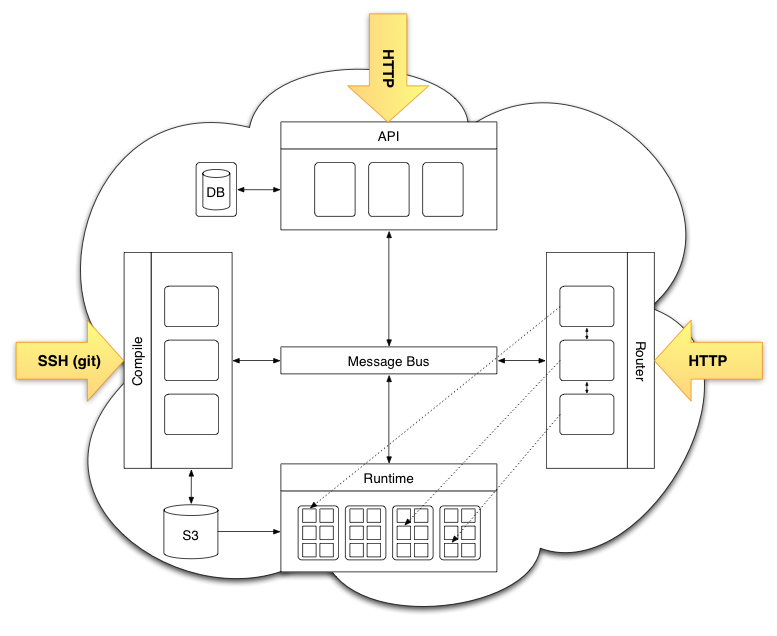
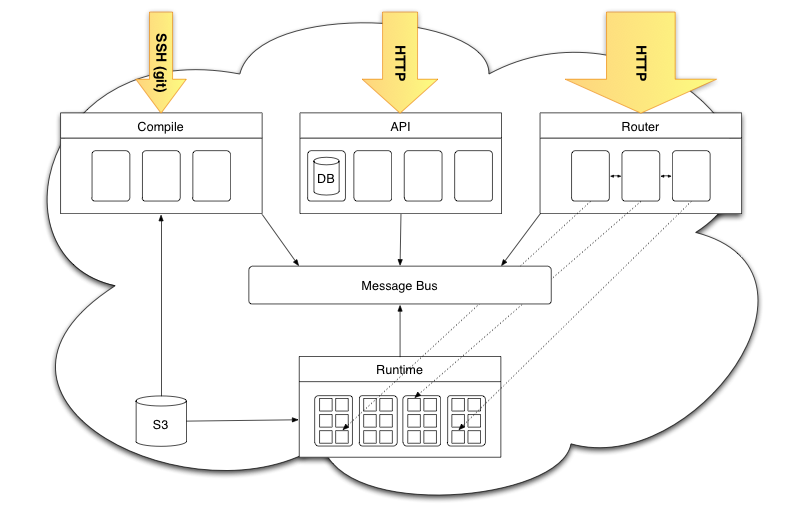
talk wip

diff --git a/sections/self-hosting/slides.md b/sections/self-hosting/slides.md
@@ -1,13 +1,21 @@
+!SLIDE title-slide bullets incremental
+# Self-Hosting #
+## A computer program that produces new versions of that same program ##
+
+* Compilers
+* Kernels
+* Programming Languages
+* Revision Control Systems
+* Text Editors
+
+<p class="notes">
+FASM; Haiku; GCC; Hart/Levin Lisp in '62; PyPy; Rubinius; CoffeeScript; Git; VIM
+</p>
+
 !SLIDE title-slide bullets
 # Self-Hosting #
-
-* A computer program that produces new versions of that same program
-* Compilers, kernels, revision control software
-
-!SLIDE title-slide bullets
-# Self-Hosting #
-## Applies to services? ##
-<p class="notes">WTF MATE??</p>
+## Applicable Metaphor for Services? ##
+<p class="notes">Service != computer program, but is a comparable system</p>
 
 !SLIDE center
 # Heroku Self-Hosting: Easy #
@@ -15,12 +23,11 @@
 ## blog.heroku.com ##
 ![Heroku Website](public.png "Heroku Website")
 
-!SLIDE
+!SLIDE bullets
 # Motivations #
 * Dogfooding
 * Efficiency
-* Decrease surface area
-* Separation of concerns
+* Separation of Concerns
 
 <p class="notes">
 Used to be unified with API!
@@ -29,41 +36,53 @@ Used to be unified with API!
 !SLIDE commandline
 # Heroku Self-Hosting: Normal #
 ## addons.heroku.com ##
-## Cron ##
+## Cron Addon ##
 
     $ heroku ps --app cron
-    Process       State               Command
-    ------------  ------------------  --------------------------------------------------
-    exec.1        up for 19h          rake resque:work QUEUE=exec
-    exec.2        up for 19h          rake resque:work QUEUE=exec
-    finder.1      up for 19h          rake resque:work QUEUES=scheduled,missed
-    finder.2      up for 18h          rake resque:work QUEUES=scheduled,missed
-    scheduler.1   up for 19h          rake resque:scheduler
-    web.1         up for 19h          bundle exec unicorn -p $PORT -c ./unicorn.conf.rb
-    web.2         up for 19h          bundle exec unicorn -p $PORT -c ./unicorn.conf.rb
-
-!SLIDE
-# Heroku Self-Hosting: Heroic #
-* PGBackups
-* postgres.heroku.com
-* Manages entire Database Cloud from heroku apps
+    Process       State        Command
+    ------------  ---------  --------------------------------------------------
+    exec.1        up for 9d  rake resque:work QUEUE=exec
+    exec.2        up for 9d  rake resque:work QUEUE=exec
+    finder.1      up for 9d  rake resque:work QUEUES=scheduled,missed
+    finder.2      up for 8d  rake resque:work QUEUES=scheduled,missed
+    scheduler.1   up for 9d  rake resque:scheduler
+    web.1         up for 9d  bundle exec unicorn -p $PORT -c ./unicorn.conf.rb
+    web.2         up for 9d  bundle exec unicorn -p $PORT -c ./unicorn.conf.rb
 
 <p class="notes">
-TODO: postgres.heroku.com image
+Addons split off from API too. Cron built using addons APIs.
+</p>
+
+!SLIDE smbullets center
+# Heroku Self-Hosting: Heroic #
+## Database Cloud Built with Heroku Apps #
+## Shogun / PGBackups ##
+![Heroku PostgreSQL](postgres.png "Heroku PostgreSQL")
+
+<p class="notes">
+postgres.heroku.com too
 </p>
 
 !SLIDE
 # Heroku Self-Hosting: Legendary? #
 
+<p class="notes">
+Halo difficulty levels
+</p>
+
 !SLIDE center
-# Architecture #
+# Heroku Architecture #
 ![Heroku Black Box Architecture](Heroku Black Box.png "Heroku Black Box Architecture")
 
 !SLIDE center
 # Self-Hosted Architecture #
 ![Compile / Runtime](Compile To Runtime.png "Compile To Runtime")
 
-!SLIDE
+<p class="notes">
+Compiling in a dyno remind you of the LLVM demo?
+</p>
+
+!SLIDE bullets
 # Motivations #
 * Dogfooding
 * Efficiency
@@ -76,10 +95,25 @@ Same bullets as public.heroku.com. Pattern?
 </p>
 
 !SLIDE
+# Disregard Servers #
+
+!SLIDE
+# Disregard Servers, #
+# Acquire Dynos #
+
+!SLIDE
+# Disregard Servers, #
+# Acquire Dynos, #
+# Not Just for Rails Apps #
+
+!SLIDE smbullets
 # Operations #
-* Heroku proves servers suck
-* Git push heroku master deploys
-* heroku logs --tail logging
+* git push heroku master deploys
+* secure containers
+* ephemeral containers
+* effortless scaling
+* addons
+* logging
 
 !SLIDE center
 # What Else? #

diff --git a/sections/bootstrapping/slides.md b/sections/bootstrapping/slides.md
@@ -1,21 +1,33 @@
-!SLIDE title-slide bullets
+!SLIDE title-slide
 # Bootstrapping, 19th Cent. #
+## To raise or better oneself by one's own unaided efforts, in a ludicrously far-fetched or quixotic manner ##
 
-* To raise or better oneself by one's own unaided efforts, in a ludicrously far-fetched or quixotic manner
+<p class="notes">
+Talk is about "bootstrap" and "self-hosting" metaphors. Originally meant something impossible.
+</p>
 
 !SLIDE center
-![Baron Munchausen](BaronMunch.jpg "Baron Munchausen")
+![Baron Münchhausen](BaronMunch.jpg "Baron Münchhausen")
+Baron Münchhausen
 
 !SLIDE bullets
 # Bootstrapping, 20th Cent. #
-* A self-sustaining process that proceeds without external help
+## A self-sustaining process that proceeds without external help ##
+
+<p class="notes">
+In early 1900s America, morphed into something possible
+</p>
 
 !SLIDE bullets incremental
 # Bootstrapping Applications #
-* Socio-economics
+* Socio-Economics
 * Business
 * Statistics
 * Linguistics
+
+<p class="notes">
+The American dream; company without VC; sampling with replacement; acquiring language
+</p>
 
 !SLIDE smbullets
 # Biology #
@@ -25,32 +37,39 @@ Different cells receive different combinations of chemicals, which switch on dif
 
 Richard Dawkins, <i>River Out of Eden</i>
 
-!SLIDE
+!SLIDE bullets
 # Computers #
 
-* Part of "booting" a computer (1953)
+* "Booting" a computer is a derivation
 * Main memory starts in a blank slate
 * Small program (BIOS) inits hardware
 * Loads a program from hard drive
 * Passes control to bigger program (OS)
 
-!SLIDE
-# Compilers #
-* Writing a compiler in the language it compiles
+<p class="notes">
+Booting circa 1953. Some computers had a "bootstrap" button
+</p>
 
 !SLIDE
+# Compilers #
+## Writing a compiler in the language it compiles ##
+
+!SLIDE bullets
 # Advantages #
 * Non-trivial test of the language being compiled
 * Development can occur in a higher-level language
 * Comprehensive consistency check
 
-!SLIDE
+!SLIDE bullets
 # Demo: LLVM / clang #
 * LLVM compiler infrastructure
 * clang C / C++, Objective C / C++ frontend
 * Written in C++
-* Sponsored/used by Apple
 * BSD license
+
+<p class="notes">
+Sponsored/used by Apple
+</p>
 
 !SLIDE code smaller
     @@@ sh
@@ -119,6 +138,10 @@ Richard Dawkins, <i>River Out of Eden</i>
       Unsupported Tests  : 1
     real  0m57.331s
 
+<p class="notes">
+Try live demo: `heroku run bin/llvm.sh --app stloop`
+</p>
+
 !SLIDE commandline
     $ heroku run bin/llvm.sh
     + wc
@@ -133,11 +156,19 @@ Richard Dawkins, <i>River Out of Eden</i>
     ++ strings /tmp/stage3/Release/bin/clang
          12      18     178
 
-!SLIDE
-# Self-hosting #
-* Bootstrap clang with GCC
+<p class="notes">
+Stage 2 is sufficient, but building stage 3 is a consistency test
+</p>
+
+!SLIDE bullets
+# Bootstrap → Self-Hosting #
+* Bootstrap LLVM/clang with GCC
 * Compile clang with clang
 * Clang is <b>self-hosting</b>!
+
+<p class="notes">
+Need to trust GCC. Ken Thompson - Reflections on Trusting Trust, 1984
+</p>
 
 !SLIDE center
 ![Drawing Hands](handrawb.jpg "Drawing Hands")

diff --git a/sections/intro/slides.md b/sections/intro/slides.md
@@ -2,18 +2,17 @@
 # Running Heroku on Heroku #
 
 * Noah Zoschke
+* @nzoschke
 * noah@heroku.com
 * [http://stloop.herokuapp.com](http://stloop.herokuapp.com)
 
 !SLIDE bullets incremental
-# Background #
+# Heroku Background #
 
 * Cloud Application Platform as a Service
 * Run anything and see everything without servers 
 * Distributed Unix
 
-!SLIDE bullets incremental
-# Background #
-
-* Self-hosting metaphor
-* Bootstrapping
+<p class="notes">
+Used to be "Ruby" App platform. Now Node.js, Clojure, JVM.
+</p>

diff --git a/sections/conclusion/slides.md b/sections/conclusion/slides.md
@@ -1,1 +1,5 @@
 reflections on trusting trust
+
+http://www.freelists.org/post/haiku/Haiku-selfhosting
+http://blog.llvm.org/2010/02/clang-successfully-self-hosts.html
+http://marc.info/?l=git&m=117254154130732
